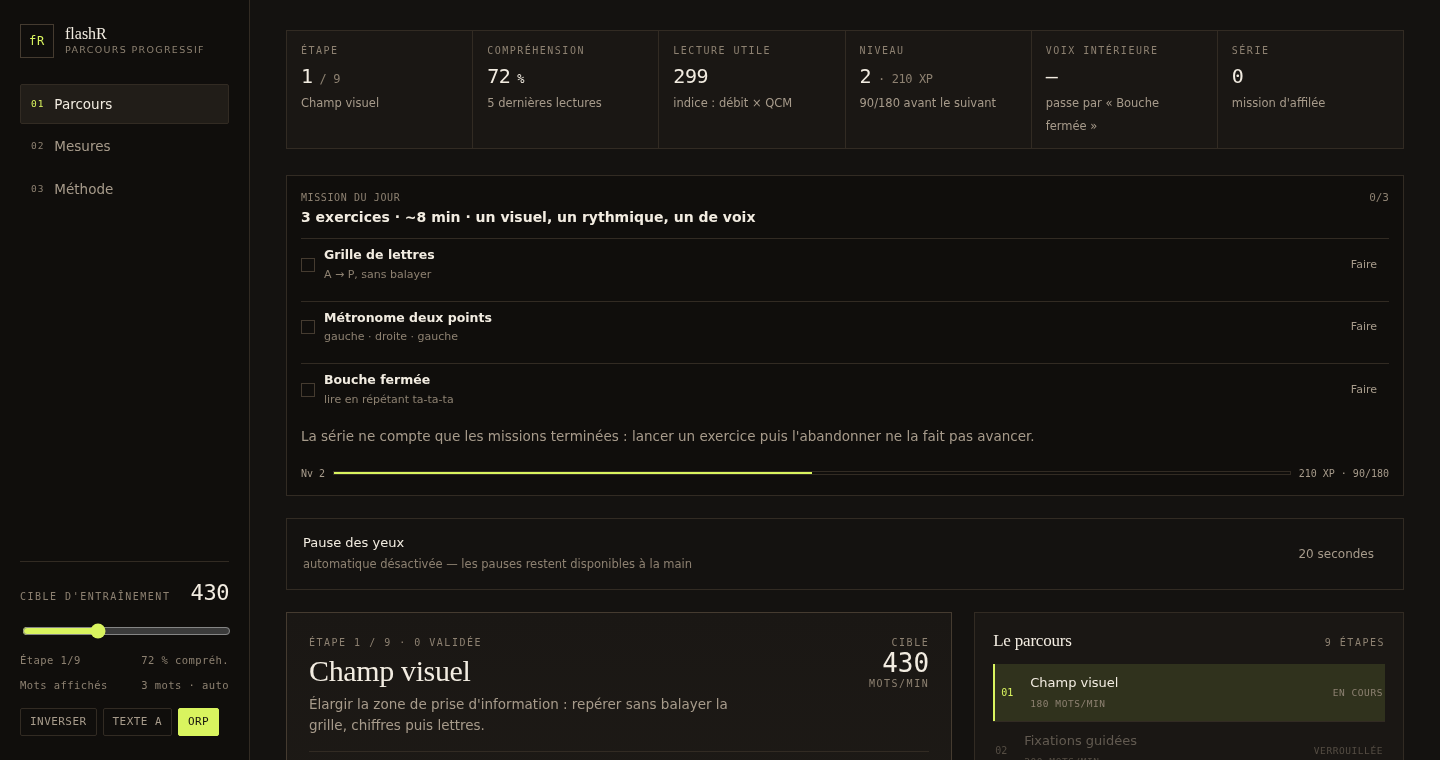
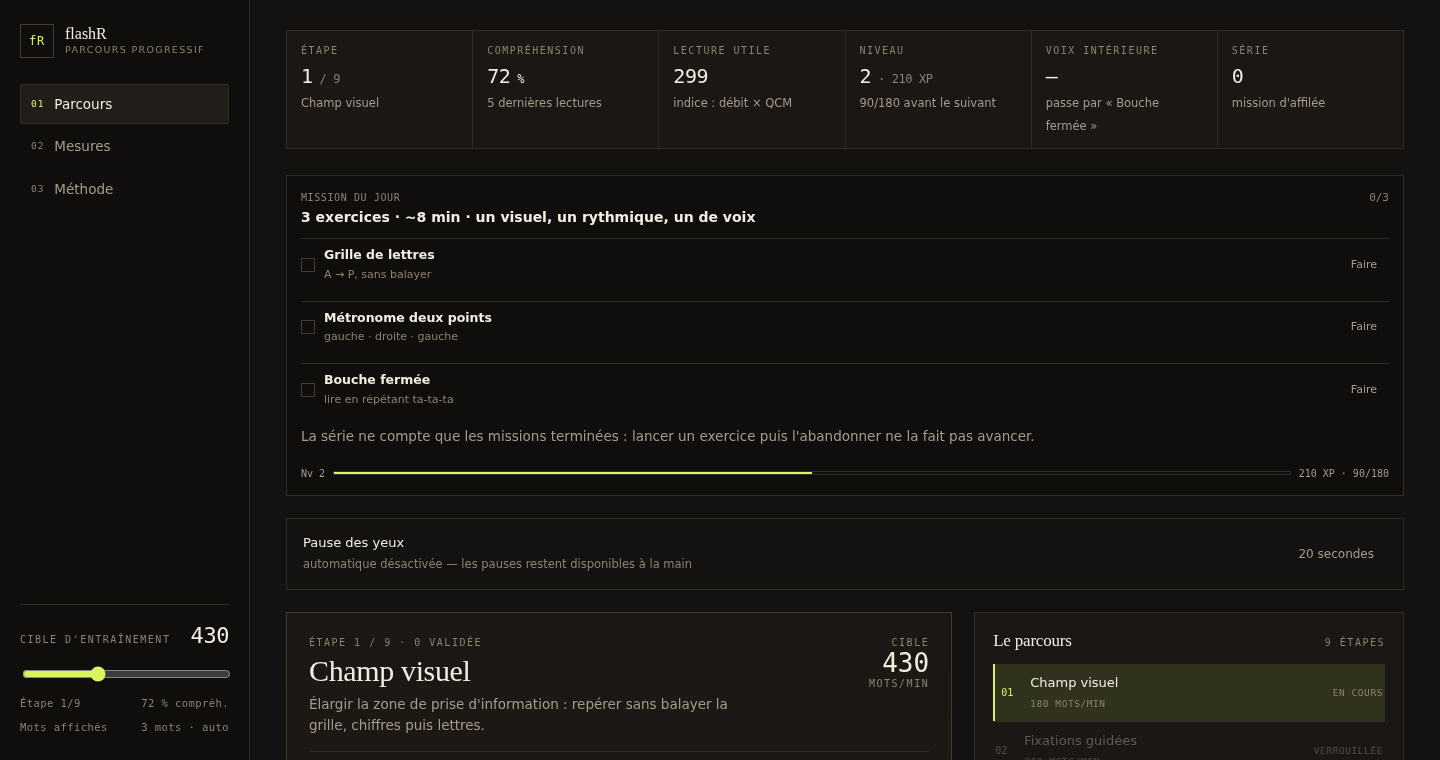
Options live on the right only: drop the rail toggles
The rail keeps the target speed and the auto words-per-display; ORP, theme and
text size are set from the right-hand panel alone. Option chips now re-render
everything so the text scale and theme apply immediately.

Changed region(s): [[0.0, 0.8171, 0.1562, 0.9684], [0.125, 0.7566, 0.1562, 0.7868], [0.0625, 0.7566, 0.0938, 0.7868]]

diff --git a/index.html b/index.html
@@ -60,7 +60,6 @@ ul,ol{margin:0;padding:0;list-style:none}
 .dial-num{font-size:22px;letter-spacing:-.02em;color:var(--ink)}
 .dial-row.small{font-size:10.5px;color:var(--dim);font-family:var(--mono);letter-spacing:.04em}
 input[type=range]{width:100%;accent-color:var(--accent);height:22px}
-.rail-toggles{display:flex;flex-wrap:wrap;gap:6px}
 .chip{border:1px solid var(--line);padding:5px 9px;font-size:11px;color:var(--muted);border-radius:2px;
   font-family:var(--mono);letter-spacing:.04em;min-height:28px}
 .chip:hover{border-color:var(--line-2);color:var(--ink)}
@@ -453,11 +452,6 @@ textarea.recall:focus{border-color:var(--accent);outline:none}
         <input id="railRange" type="range" min="120" max="1000" step="10" aria-label="Vitesse cible d'entraînement en mots par minute">
         <div class="dial-row small"><span id="railEtape">Étape 1</span><span id="railComp"></span></div>
         <div class="dial-row small"><span title="Déterminé par le palier de vitesse : 1 mot jusqu'à 250, 2 dès 300, 4 dès 520, 8 à 1000. La feuille de réglages d'un exercice peut s'en écarter.">Mots affichés</span><span class="mono" id="railChunk">1 mot · auto</span></div>
-      </div>
-      <div class="rail-toggles">
-        <button class="chip" id="themeBtn" title="Basculer encre / papier">INVERSER</button>
-        <button class="chip" id="sizeBtn" title="Taille du texte de lecture">TEXTE</button>
-        <button class="chip" id="orpBtn" title="Point d'ancrage optimal">ORP</button>
       </div>
     </div>
   </aside>
@@ -2548,9 +2542,6 @@ function renderRail(){
   const rc=$('#railChunk'); if(rc){ const cl=chunkForLevel(); rc.textContent=cl+(cl>1?' mots':' mot')+' · auto'; }
   document.documentElement.dataset.theme=S.theme;
   document.documentElement.style.setProperty('--tscale',S.size);
-  $('#orpBtn').classList.toggle('is-on',!!S.orp);
-  $('#themeBtn').textContent=S.theme==='ink'?'INVERSER':'INVERSER';
-  $('#sizeBtn').textContent='TEXTE '+['A','A+','A++'][S.size===1?0:S.size===1.14?1:2];
 }
 
 function renderDash(){
@@ -2721,7 +2712,7 @@ function renderDash(){
     if(p==='eyeAuto'){ S.eyeAuto=!S.eyeAuto; if(!S.eyeAuto) S.eyeMs=0; }
     if(p==='theme') S.theme=S.theme==='ink'?'paper':'ink';
     if(p==='size'){ const sizes=[1,1.14,1.28]; S.size=sizes[(sizes.indexOf(S.size)+1)%3]; }
-    save(); renderDash();
+    save(); renderAll();
   }));
   $('#resetAll').addEventListener('click',()=>{
     if(confirm("Effacer tout l'historique et repartir de zéro ?")){ localStorage.removeItem(KEY); S=load(); renderDash(); toast('Données effacées'); }
@@ -3079,9 +3070,6 @@ $('#railRange').addEventListener('input',e=>{
   S.wpm=+e.target.value; $('#railWpm').textContent=S.wpm; save();
   if(!$('#view-dash').hidden) renderDash();
 });
-$('#themeBtn').addEventListener('click',()=>{ S.theme=S.theme==='ink'?'paper':'ink'; save(); renderAll(); });
-$('#sizeBtn').addEventListener('click',()=>{ const sizes=[1,1.14,1.28]; S.size=sizes[(sizes.indexOf(S.size)+1)%3]; save(); renderAll(); });
-$('#orpBtn').addEventListener('click',()=>{ S.orp=!S.orp; save(); renderAll(); });
 $('#stageExit').addEventListener('click',()=>{ endStage(); });
 $('#stageRestart').addEventListener('click',()=>restartRun());
 document.addEventListener('keydown',e=>{
